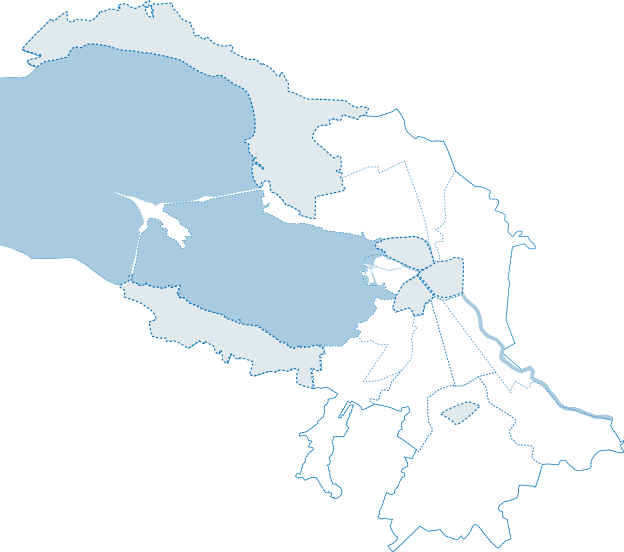
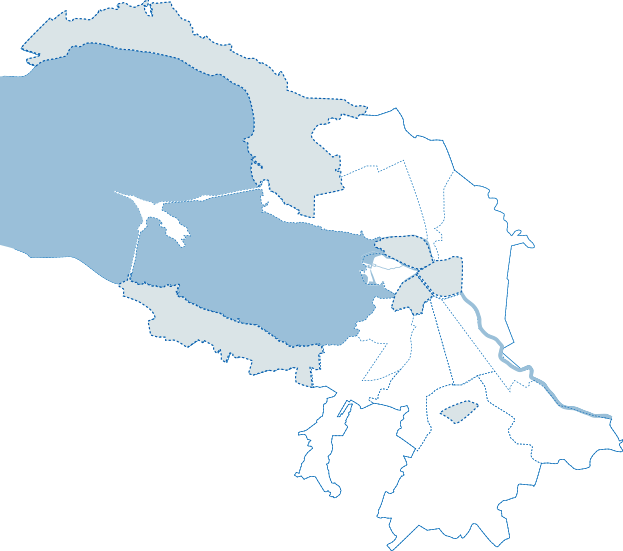
new files added

diff --git a/js/main.js b/js/main.js
@@ -41,5 +41,29 @@
 
     $('.hide').click(function(){
         this.parentNode.style.display = 'none';
-    })
+    });
+
+
+     $('.map area').mouseover(function() {
+         showMapRegion($(this).attr('class').split('region-').pop());
+     });
+     $('.map area').mouseout(function() {
+         hideMapRegion($(this).attr('class').split('region-').pop());
+     });
+     $('.map-links a').mouseover(function() {
+         showMapRegion($(this).attr('class').split('region-').pop());
+     });
+     $('.map-links a').mouseout(function() {
+         hideMapRegion(parseInt($(this).attr('class').split('region-').pop()));
+     });
+
+     showMapRegion = function(num) {
+         $('.map img.region-'+num).show();
+         $('.map-links .region-'+num).addClass('active');
+     };
+
+     hideMapRegion = function(num) {
+         $('.map img.region-'+num).hide();
+         $('.map-links .region-'+num).removeClass('active');
+     };
 });

diff --git a/reconstruction.html b/reconstruction.html
@@ -8,6 +8,7 @@
     <title>Реконструкция</title>
     <script src="js/jquery-1.11.1.min.js"></script>
     <script src="js/jquery.slides.min.js"></script>
+    <script src="js/simple-expand.min.js"></script>
     <!--[if IE 8]>
     <link href="css/ie-style.css" rel="stylesheet" type="text/css">
     <![endif]-->
@@ -227,7 +228,7 @@
                 <img class="hint region-4"  src="img/map-hint-4.png">
                 <img class="hint region-5"  src="img/map-hint-5.png">
                 <img class="hint region-7"  src="img/map-hint-7.png">
-                <img usemap="#regions" class="no-gallery" src="img/1x1.gif" width="624" height="552">
+                <img usemap="#regions" class="no-gallery" src="img/1x1.gif" width="623" height="551">
             </div>
             </div>
         </div>

diff --git a/css/style.css b/css/style.css
@@ -1222,7 +1222,7 @@ td.center {
     margin-top: 40px;
     position:relative;
     width: 624px;
-    height: 552px;
+    height: 551px;
 }
 
 .map img{
@@ -1255,8 +1255,8 @@ td.center {
 }
 
 .hint.region-7 {
-    margin-top: 359px;
-    margin-left: 454px;
+    margin-top: 354px;
+    margin-left: 458px;
 }
 
 /**
@@ -1272,6 +1272,5 @@ table, caption, tbody, tfoot, thead, tr, th, td {
     border: 0;
     font-size: 100%;
     font: inherit;
-
 }
 
